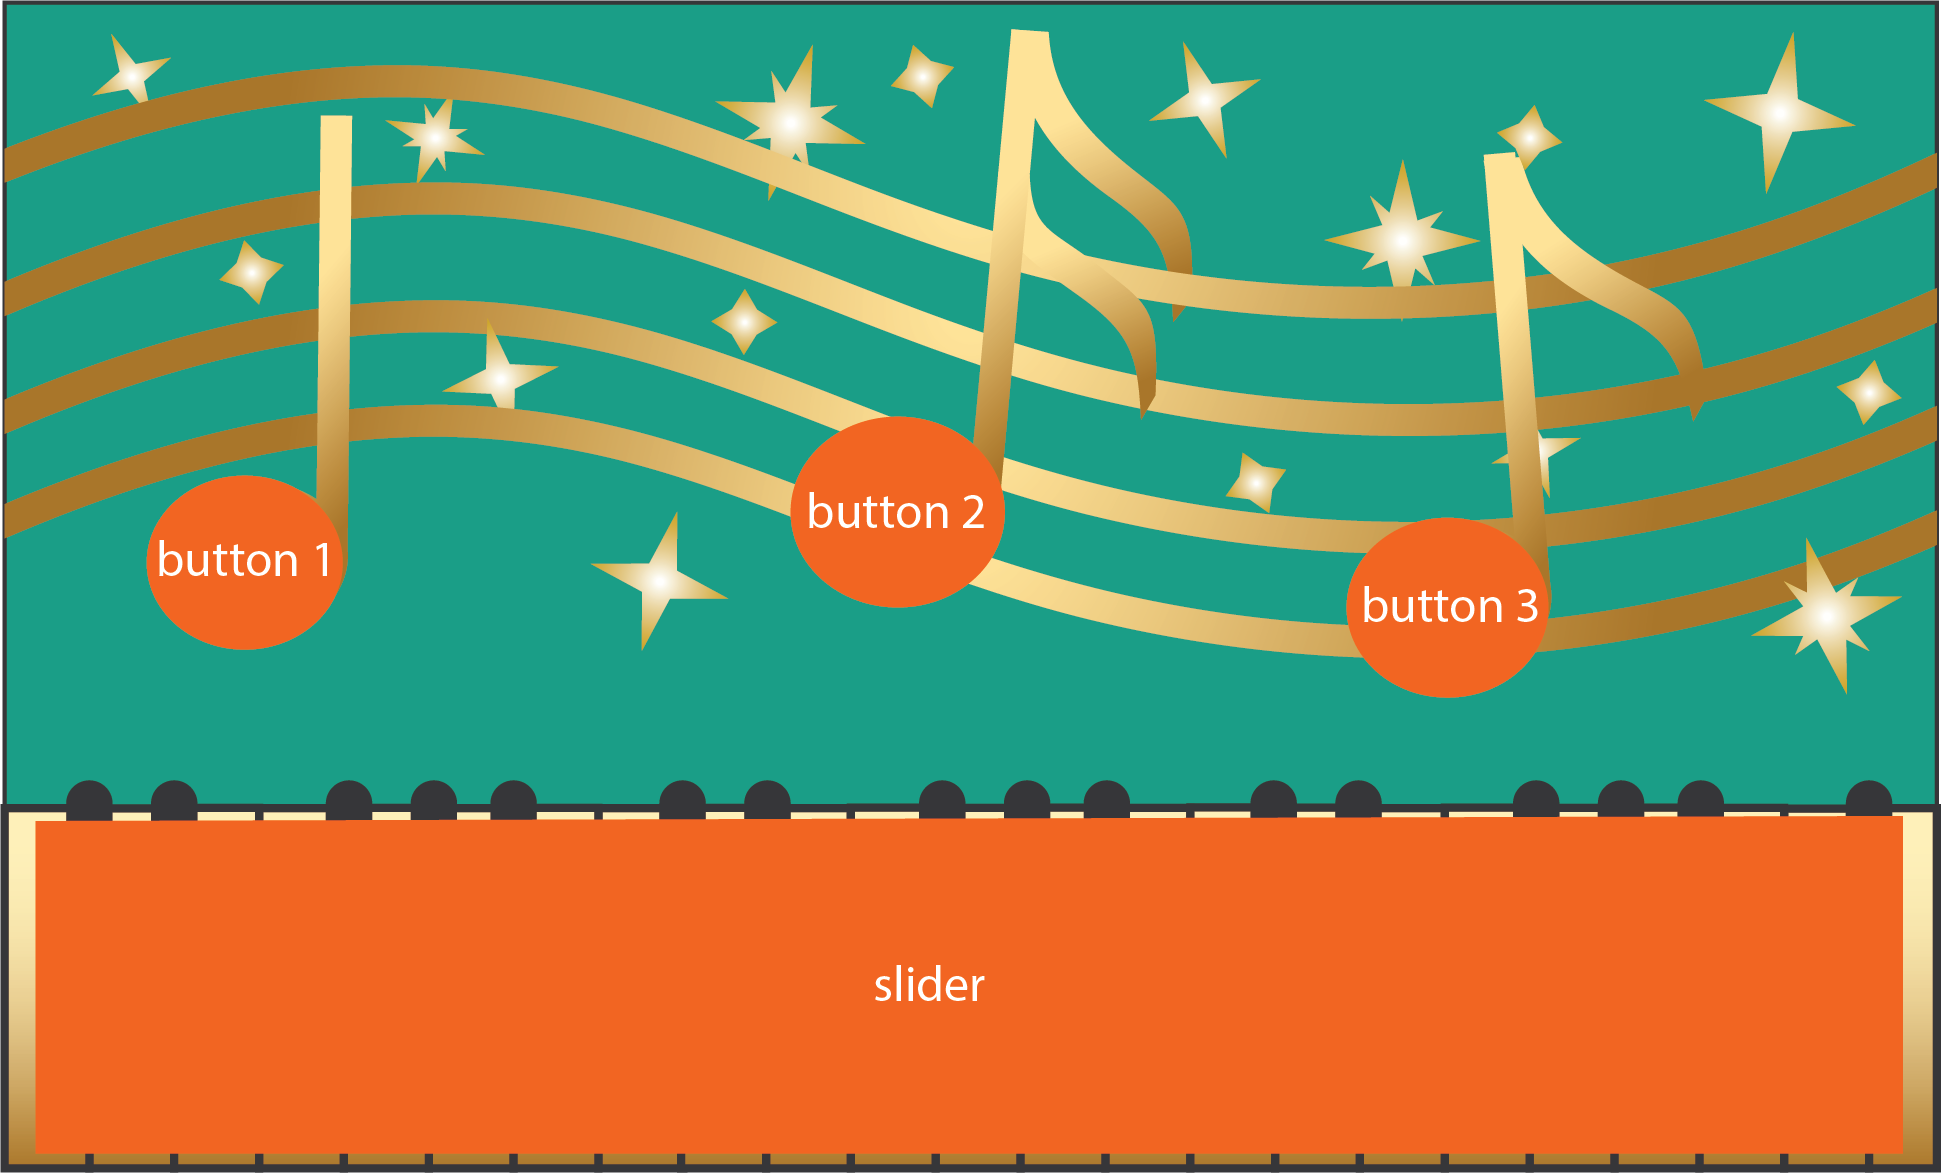
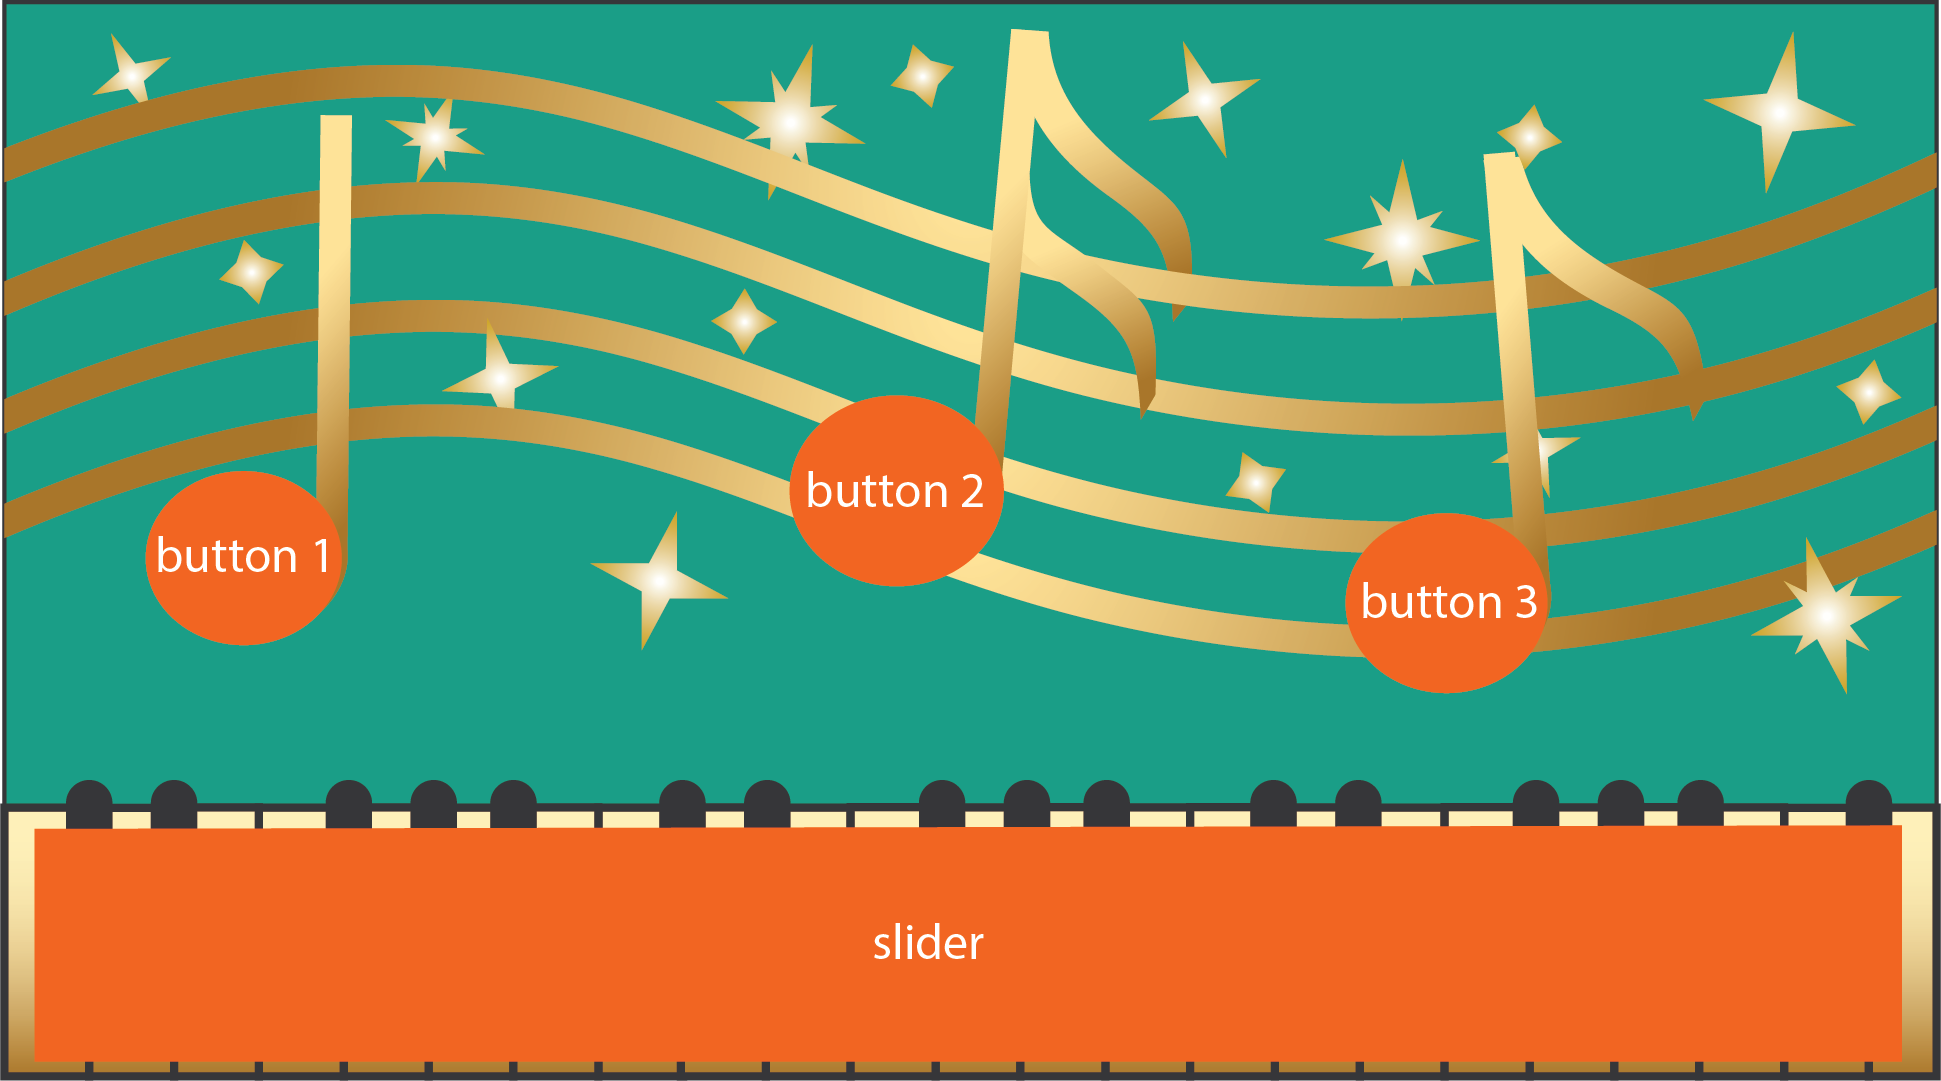
update music card design figures + conductive design figures in 6810 lab1

diff --git a/classes/2020-fall-6810/pset1-circuit-design.html b/classes/2020-fall-6810/pset1-circuit-design.html
@@ -185,14 +185,23 @@ If you are unsure if everything has the right dimension, use a regular color pri
 Once your circuit design tool is ready, export a multi-touch pad of 9x8 electrodes from your user interface.<br><br>
 
 Go to a fabrication office hour to inkjet print your multi-touch pad.<br>
-Remember you need to print two sheets, one for column and one for rows (one sheet for sender pins, one sheet for receiver pins).<br><br>
+Remember you need to print two sheets, one for column and one for rows (one sheet for sender pins, one sheet for receiver pins).<br>
+While printing, make sure you don't scale the image and print with <b>"Print Entire Image"<b> setting, so that the image prints out accurately. <br><br>
+<img src="images/pset1-printing-setting.png" width="600px"> <br><br>
 
 <h3>(3) Assemble Top and Bottom Electrode Layers</h3>
 
 Once you printed both sheets, you can glue them together using a temporary tattoo paper, like this one <a href="https://www.amazon.com/gp/product/B0043WJ3OA/ref=ppx_yo_dt_b_search_asin_title?ie=UTF8&psc=1"> here</a>. <br>
 
 We are glueing only the electrode touch area but not where the wires are routing to the FPC connectors.<br>
-We will provide you with the temporary tattoo paper when you come print out your multi-touch pad design during Office Hours.<br><br>
+The alignment between two layers are really critical for accurate sensing signals.<br> 
+We recommend that you align them properly first, and use scotch tape to tape one side so that the relative positions are fixed. Then flip the top layer up, attach the tattoo paper at the bottom layer, then flip back the top layer so that they end up exactly aligned and glued. <br>
+You should also attach a transparent sheet on top of the assembled sheets, so that you finger does not end up touching the electrodes directly. You can do that with the scotch tape etc. <br>
+We will provide you with the temporary tattoo paper and transparent sheet when you come print out your multi-touch pad design during Office Hours.<br><br>
+
+You shoudl end up with something similar to this: <br>
+<img src="images/pset1-assembled-sheets.png" width="600px"> <br><br>
+
 
 
 <h3>(4) Solder and Connect the FPC Connectors</h3>

diff --git a/classes/2020-fall-6810/lab1-circuit-design-and-processing.html b/classes/2020-fall-6810/lab1-circuit-design-and-processing.html
@@ -63,8 +63,8 @@ In lab 1 and lab 2, we are going to create the interactive music card shown belo
 <img src="images/music-card2.png" width="200px" />
 <img src="images/music-card3.png" width="200px" />
  -->
-<img src="images/music-card-design.png" width="285px" />
-<img src="images/lab1-design-planning_new.png" width="275" />
+<img src="images/music-card-design_new.png" width="285px" />
+<img src="images/lab1-design-planning_new.png" width="285px" />
 <img src="images/lab1-print3.jpg" width="155px" />
 
 
@@ -97,8 +97,8 @@ To get started, download the visual design of our music card <a href="images/lab
 For our interactive card, we want to add three touch buttons, one on each note (we will later use them to go to the next/previous song and pause/play the song).<br>
 In addition, the piano area should serve as a volume slider, i.e. if we drag our finger from left to right, the volume of the music that is playing will increase.<br><br>
 
-<img src="images/music-card-design.png" width="350px" />
-<img src="images/lab1-design-planning_new.png" width="335px" /><br><br>
+<img src="images/music-card-design_new.png" width="350px" />
+<img src="images/lab1-design-planning_new.png" width="350px" /><br><br>
 
 <h4>Draw the Touch Buttons and Their Wires</h4><br>
 
@@ -190,7 +190,7 @@ You can either print from your own laptop or use the computer we have in the wor
 
 If you want to print from your own laptop, please make sure you install the printer driver for the <span style="color:red"><a href="https://www.usa.canon.com/internet/portal/us/home/support/details/printers/mobile-compact-printer/pixma-tr150">Canon PIXMA TR150 Printer</a></span> and a second printer driver for the <a href="https://epson.com/Support/Printers/All-In-Ones/ET-Series/Epson-ET-2760/s/SPT_C11CG22203">Epson EcoTank ET-2760.</a><br><br>
 
-<img src="images/music-card-design.png" width="317px" />
+<img src="images/music-card-design_new.png" width="317px" />
 <img src="images/lab1-exporting-design-circuit_new.png" width="317px" /><br><br>
 
 <h2 class="headline">(2) Conductive Silver Inkjet Printing</h2>
